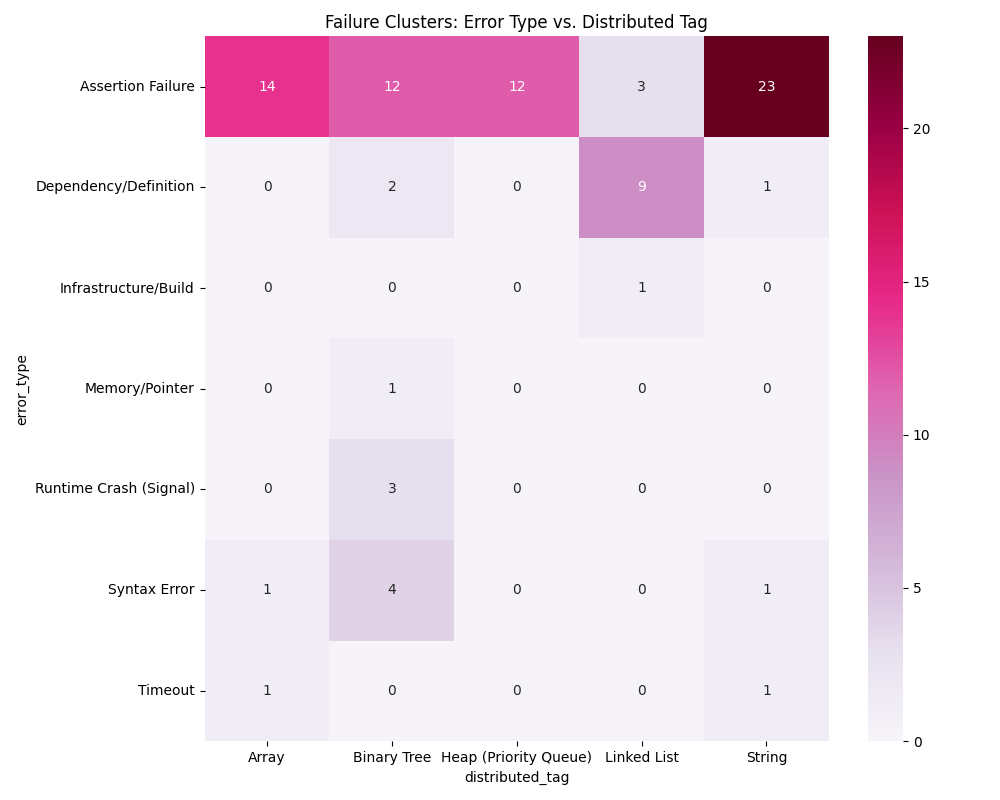
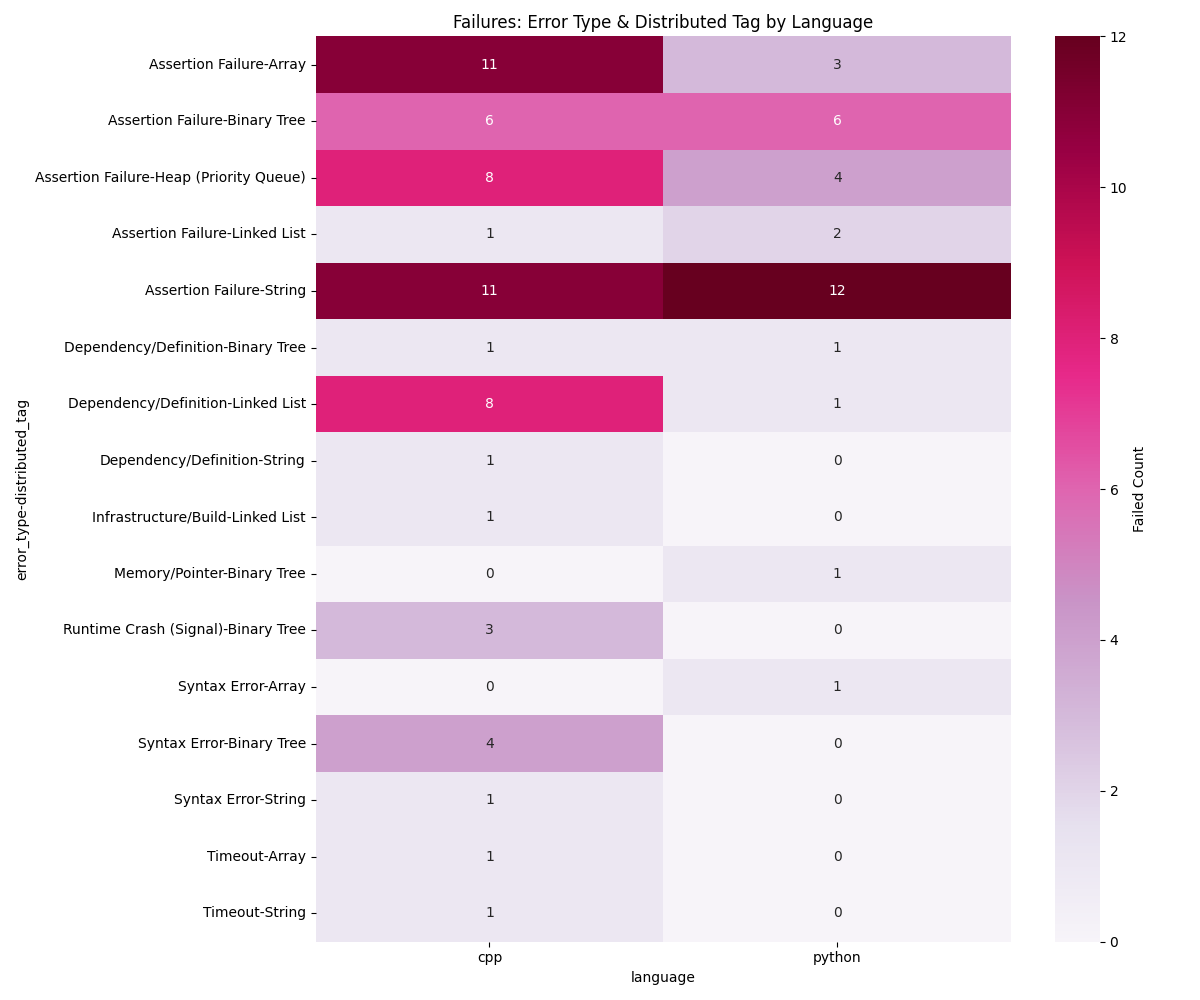
divided by language

diff --git a/generated_code/unittest_run_all.py b/generated_code/unittest_run_all.py
@@ -923,29 +923,47 @@ def plot_graph_bc_failures_difficulty_error(attempt_df: pd.DataFrame):
 
 def plot_graph_bd_failures_difficulty_tag(attempt_df: pd.DataFrame):
     """
-    Heatmap: Measures failed attempts cross-referencing Difficulty and Distributed Tag.
+    Heatmap: Measures failed attempts cross-referencing Difficulty and Distributed Tag
+    separated by Language.
     """
-    df_fails = attempt_df[attempt_df['result'] == 'failed'].copy()
-    matrix = df_fails.groupby(['difficulty', 'distributed_tag']).size().unstack(fill_value=0)
+    failures = attempt_df[attempt_df['result'] == 'failed']
     
-    # Ensure specific order for difficulty
-    matrix = matrix.reindex(['Easy', 'Medium', 'Hard'], axis=0)
+    # Create multi-index pivot
+    matrix = failures.pivot_table(
+        index=['difficulty', 'distributed_tag'], 
+        columns='language', 
+        aggfunc='size', 
+        fill_value=0
+    )
     
-    plt.figure(figsize=(10, 6))
-    sns.heatmap(matrix, annot=True, fmt='d', cmap='YlGnBu')
-    plt.title("Failure Clusters: Difficulty vs. Distributed Tag")
+    # Optional: If you want to force specific difficulty order, you can sort the index
+    # Note: reindexing a MultiIndex pivot is complex; standard pivot sort is usually sufficient.
+    
+    plt.figure(figsize=(12, 10))
+    sns.heatmap(matrix, annot=True, fmt='d', cmap='YlGnBu', cbar_kws={'label': 'Failed Count'})
+    plt.title("Failures: Difficulty & Distributed Tag by Language")
+    plt.xticks(rotation=0)
     save_current_figure("graph_bd_failures_difficulty_tag.png")
 
 def plot_graph_cd_failures_error_tag(attempt_df: pd.DataFrame):
     """
-    Heatmap: Measures failed attempts cross-referencing Error Type and Distributed Tag.
+    Heatmap: Measures failed attempts cross-referencing Error Type and Distributed Tag
+    separated by Language.
     """
-    df_fails = attempt_df[attempt_df['result'] == 'failed'].copy()
-    matrix = df_fails.groupby(['error_type', 'distributed_tag']).size().unstack(fill_value=0)
+    failures = attempt_df[attempt_df['result'] == 'failed']
     
-    plt.figure(figsize=(10, 8))
-    sns.heatmap(matrix, annot=True, fmt='d', cmap='PuRd')
-    plt.title("Failure Clusters: Error Type vs. Distributed Tag")
+    # Create multi-index pivot
+    matrix = failures.pivot_table(
+        index=['error_type', 'distributed_tag'], 
+        columns='language', 
+        aggfunc='size', 
+        fill_value=0
+    )
+    
+    plt.figure(figsize=(12, 10))
+    sns.heatmap(matrix, annot=True, fmt='d', cmap='PuRd', cbar_kws={'label': 'Failed Count'})
+    plt.title("Failures: Error Type & Distributed Tag by Language")
+    plt.xticks(rotation=0)
     save_current_figure("graph_cd_failures_error_tag.png")
 
 # c. HEATMAP: Measure # of failed attempts vs error type in C++ vs Python
